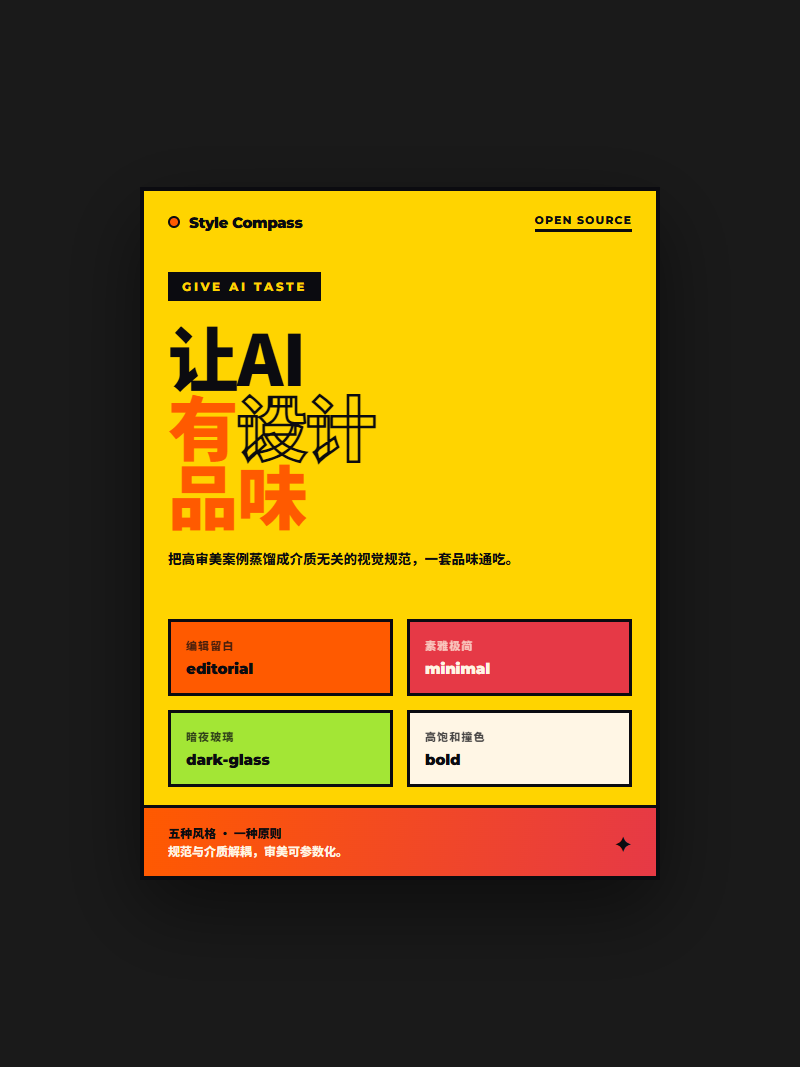
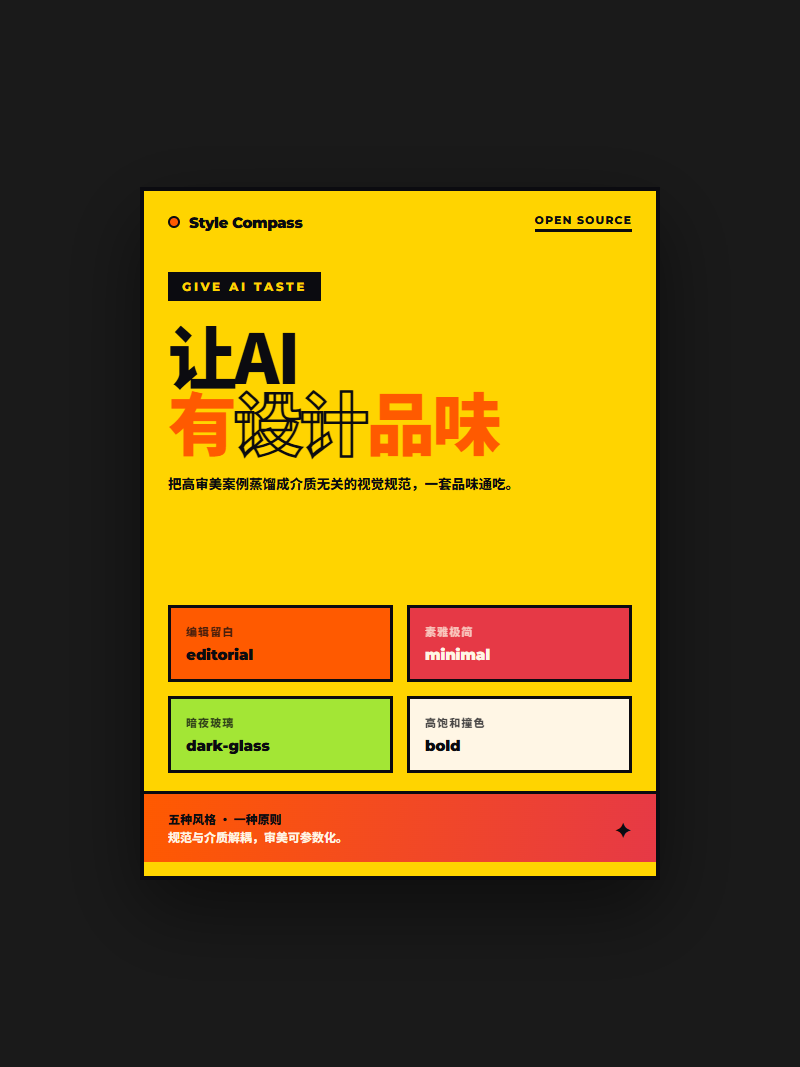
refine(poster): bottom breathing + bolder bold title
- add bottom padding (34->46) to dark-glass / clean-minimal / dark-glow so the
  footer no longer hugs the canvas edge
- bold-playful: enlarge + tighten the headline (two-line 让AI/有设计品味, nowrap),
  keep the punchy grotesque look, and add footer margin

Changed region(s): [[0.1562, 0.3093, 0.8438, 0.8351], [0.5312, 0.4948, 0.625, 0.5258]]

diff --git a/examples/style-compass/poster-bold.html b/examples/style-compass/poster-bold.html
@@ -35,7 +35,8 @@
 
   .head{padding:18px 24px 0}
   .tag{font-family:var(--en);display:inline-block;background:var(--ink);color:var(--bg);font-size:12px;font-weight:800;letter-spacing:.22em;padding:7px 14px;margin-bottom:20px;text-transform:uppercase}
-  .head h1{font-weight:900;line-height:.98;letter-spacing:-.02em;font-size:clamp(3rem,12.5vw,4.4rem);color:var(--ink);text-transform:uppercase}
+  .head h1{font-weight:900;line-height:.96;letter-spacing:-.04em;font-size:clamp(3.1rem,12.5vw,4.3rem);color:var(--ink);text-transform:uppercase}
+  .head h1 span{white-space:nowrap}
   .head h1 .hl{color:var(--orange)}
   .head h1 .outline{color:transparent;-webkit-text-stroke:2.5px var(--ink)}
   .head p{font-size:13.5px;color:var(--ink);font-weight:700;margin-top:20px;max-width:88%;line-height:1.6}
@@ -49,7 +50,7 @@
   .b-green{background:var(--green)} .b-cream{background:var(--cream)}
   .b-red .k{color:var(--cream)} .b-red .v{color:var(--cream)}
 
-  .concept{margin-top:18px;padding:16px 24px;background:linear-gradient(100deg,var(--orange),var(--red));border-top:3px solid var(--ink);display:flex;align-items:center;justify-content:space-between}
+  .concept{margin-top:18px;margin-bottom:14px;padding:16px 24px;background:linear-gradient(100deg,var(--orange),var(--red));border-top:3px solid var(--ink);display:flex;align-items:center;justify-content:space-between}
   .concept .l{font-size:12px;color:var(--cream);font-weight:800;line-height:1.5;max-width:72%}
   .concept .l b{color:var(--ink)}
   .concept .star{font-size:22px;color:var(--ink)}
@@ -63,7 +64,7 @@
     </div>
     <div class="head">
       <div class="tag">Give AI Taste</div>
-      <h1>让AI<br><span class="hl">有</span><span class="outline">设计</span><br><span class="hl">品味</span></h1>
+      <h1>让AI<br><span class="hl">有</span><span class="outline">设计</span><span class="hl">品味</span></h1>
       <p>把高审美案例蒸馏成介质无关的视觉规范，一套品味通吃。</p>
     </div>
     <div class="mid">

diff --git a/examples/style-compass/poster-glow.html b/examples/style-compass/poster-glow.html
@@ -35,7 +35,7 @@
       radial-gradient(300px 260px at 40% 40%,rgba(255,179,71,.14),transparent 62%)}
   .poster::after{content:'';position:absolute;inset:auto -10% -20% -10%;height:40%;
     background:radial-gradient(60% 100% at 50% 100%,rgba(255,179,71,.28),transparent 70%);filter:blur(20px)}
-  .inner{position:relative;z-index:1;padding:30px 32px 34px;display:flex;flex-direction:column;flex:1}
+  .inner{position:relative;z-index:1;padding:30px 32px 46px;display:flex;flex-direction:column;flex:1}
 
   .top{display:flex;justify-content:space-between;align-items:center;font-family:var(--en);margin-bottom:60px}
   .brand{font-size:14px;font-weight:700;letter-spacing:-.01em}

diff --git a/examples/style-compass/poster-light.html b/examples/style-compass/poster-light.html
@@ -26,7 +26,7 @@
   .poster{
     width:min(92vw,520px);aspect-ratio:3/4;border-radius:18px;overflow:hidden;position:relative;
     background:var(--paper);border:1px solid rgba(0,0,0,.03);box-shadow:0 30px 70px rgba(0,0,0,.12);
-    padding:30px 32px 34px;display:flex;flex-direction:column;
+    padding:30px 32px 46px;display:flex;flex-direction:column;
   }
   .top{display:flex;justify-content:space-between;align-items:center;margin-bottom:56px}
   .logo{display:flex;align-items:center;gap:9px;font-family:var(--en);font-weight:700;font-size:15px;letter-spacing:-.02em}

diff --git a/examples/style-compass/poster.html b/examples/style-compass/poster.html
@@ -37,7 +37,7 @@
       radial-gradient(320px 300px at 55% 55%,rgba(34,211,238,.08),transparent 62%),
       linear-gradient(180deg,#0d0d14,#0a0a10);
     border:1px solid rgba(255,255,255,.08);box-shadow:0 40px 90px rgba(0,0,0,.6);
-    padding:34px 32px;display:flex;flex-direction:column;
+    padding:34px 32px 46px;display:flex;flex-direction:column;
   }
   .top{display:flex;align-items:center;justify-content:space-between}
   .logo{display:flex;align-items:center;gap:10px;font-weight:700;letter-spacing:-.01em;font-size:16px;font-family:var(--logo)}
